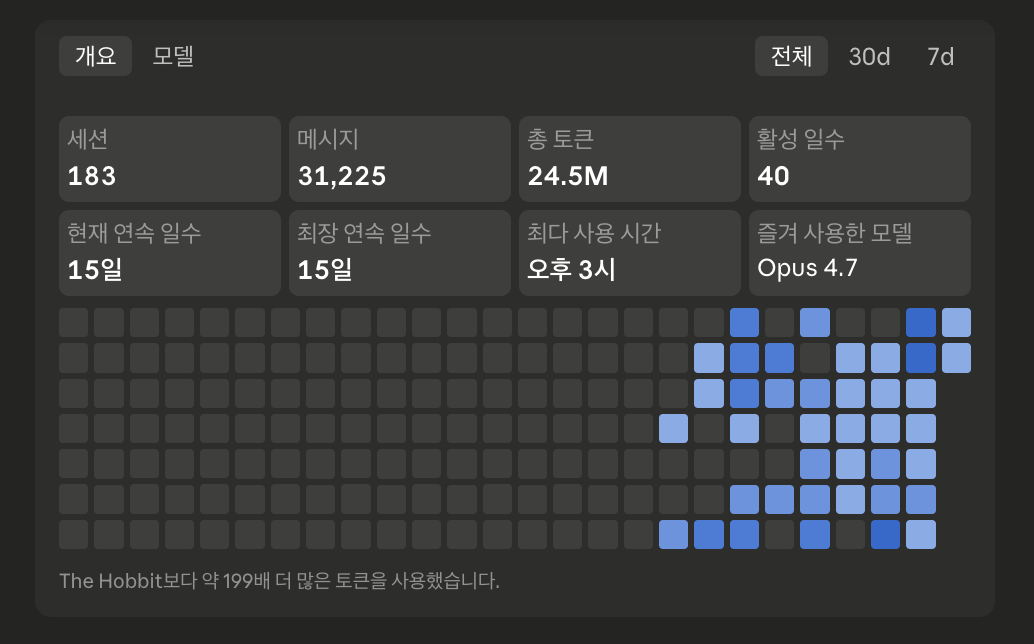
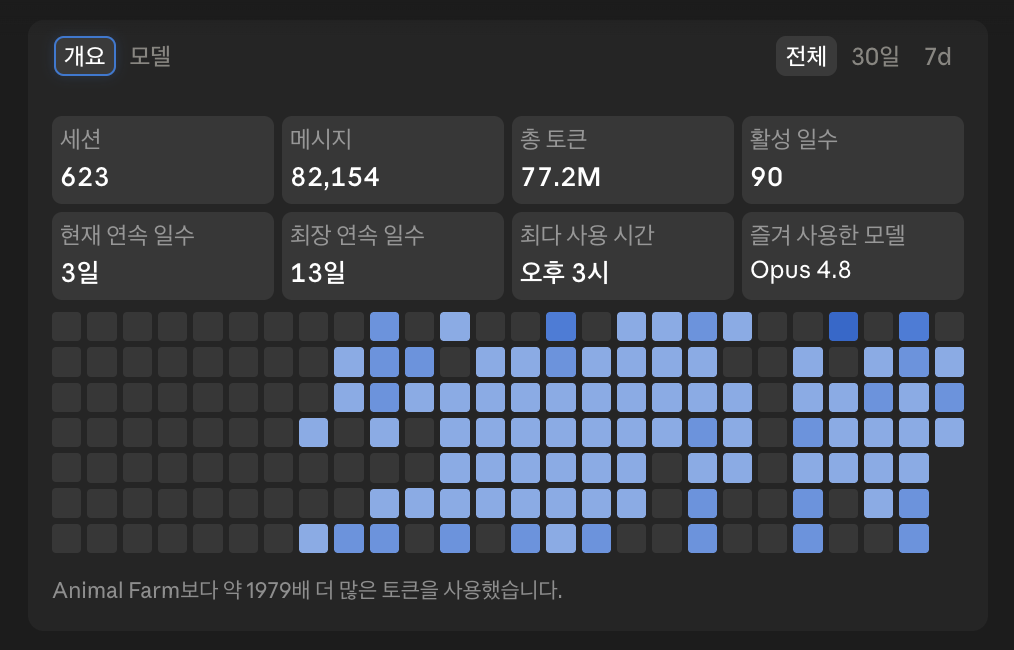
docs: 사용량 확인 안내를 최신 화면·플랜 기준으로 정리 (#50)
교체한 Claude Desktop 캡처 3장에 맞춰 서술을 맞췄다.

- 세션 항목 라벨을 화면 표기인 「5시간 한도」로 변경하고,
  라벨에서 「세션」이 사라진 만큼 본문의 「5시간 세션 초기화」도
  「5시간 한도 초기화」로 맞춤
- 주간 한도를 전체 모델 기준으로 변경. 모델별 한도 정책이 자주
  바뀌어 특정 모델 이름을 문서에 고정하지 않는다
- 두 라벨의 영문 병기 제거. 캡처에 한국어 표기만 보여 영문 라벨을
  확인할 수 없어 지어내기보다 빼는 쪽을 택했다
- 한도가 있는 플랜 열거에 Team 추가
- Claude Code 사용량 안내에 팀·엔터프라이즈 공식 문서를 더해 플랜
  쌍을 맞추고, 본문에서 플랜 열거를 제거해 링크가 지도록 함

요약 화면에 새로 생긴 「컨텍스트 윈도우」 항목은 Claude Code의
영역이라 설명을 추가하지 않았다.

diff --git a/slides/slides.md b/slides/slides.md
@@ -759,8 +759,8 @@ docs/intro.md 「모델 비교 ― Fable · Opus · Sonnet · Haiku」(#claude-m
 
 claude.ai 웹·Claude Desktop 공통.
 
-- **현재 세션** ― 5시간 한도 중 사용량·남은 시간
-- **주간 한도** ― Opus / 그 외 모델별 초기화 시점
+- **5시간 한도** ― 전체 모델 기준 사용량·남은 시간
+- **주간 한도** ― 전체 모델 기준 사용량·재설정 시점
 
 </div>
 </div>
